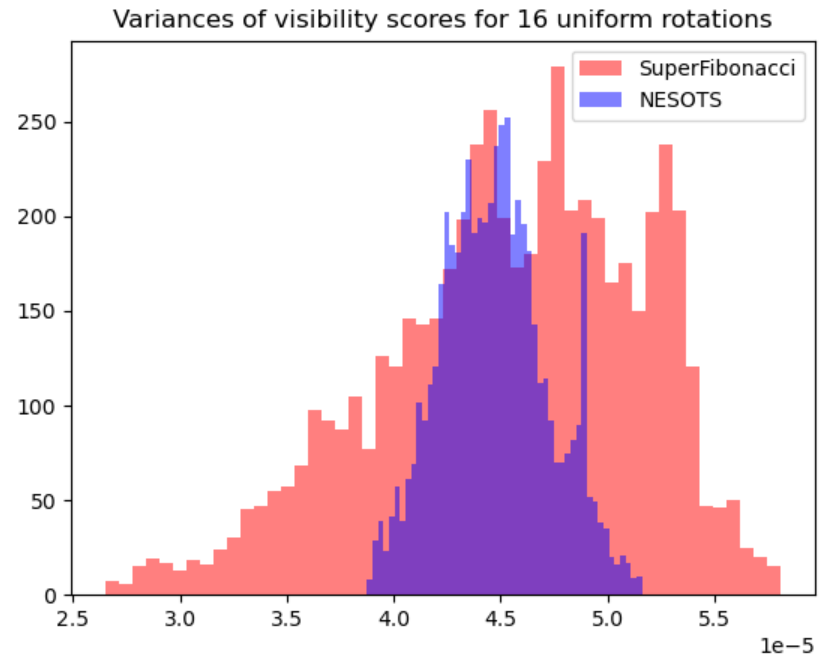
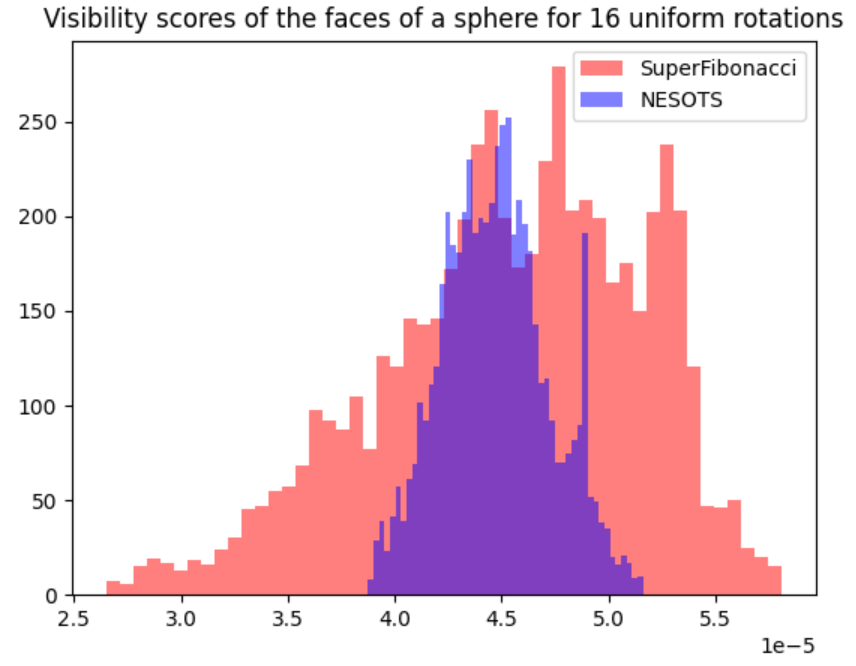
end nesots slides

diff --git a/projects/NESOTS/main.cpp b/projects/NESOTS/main.cpp
@@ -48,10 +48,10 @@ vecs project(vecs X,vec s) {
     return X;
 }
 
-curve_param roundArrowParam(const vec& a ,const vec& b) {
+curve_param roundArrowParam(const vec& a ,const vec& b,int side = 1) {
     vec mid = (a+b)/2;
     vec dx = b-mid;
-    int side = rand()%2;
+    //int side = rand()%2;
     return [mid,dx,side] (scalar t) {
         if (side)
             return vec(mid + Eigen::AngleAxis<scalar>(t*M_PI,vec(0,1,0))*dx);
@@ -174,7 +174,6 @@ using VFPC = std::shared_ptr<PolyscopeQuantity<polyscope::PointCloudVectorQuanti
 bool runall = false;
 void init() {
 
-    srand(time(NULL));
 
     Latex::NewCommand("W","\\mathcal{W}");
     Latex::NewCommand("U","\\mathcal{U}");
@@ -192,19 +191,19 @@ void init() {
 //        show << PlaceBelow(Latex::Add(tex::center("Baptiste Genest \\\\  Nicolas Courty \\\\ David Coeurjolly"),Options::UPS_default_height_ratio*0.8),0.1);
 //        show << PlaceBelow(Latex::Add("Eurographics 2024",Options::UPS_default_height_ratio*0.7),0.1);
 //        show << PlaceBottomLeft(Latex::Add("aaaaa",Options::UPS_default_height_ratio*0.7),0.01);
-        show << Image::Add("welcome.png",1);
+        show << Image::Add("welcome_2.jpeg",1);
         show << BackgroudColor::Add(0,0,0);
     }
 
     {
         show << newFrame << Title("Context")->at(TOP);
-        show << PlaceRelative(Latex::Add("We contribute to the \\textcolor{blue}{blue-noise} sampling techniques that uses \\textcolor{blue}{optimal transport} by extending those techniques to \\textcolor{blue}{non-Euclidean} domains ($\\Sp^d,\\Hy^d,\\Pp^d$)."),ABS_LEFT,UPS::REL_BOTTOM,0.03,0.1);
+        show << PlaceRelative(Latex::Add("We contribute to the \\textcolor{blue}{blue-noise} sampling techniques that use \\textcolor{blue}{optimal transport} by extending those techniques to \\textcolor{blue}{non-Euclidean} domains ($\\Sp^d,\\Hy^d,\\Pp^d$)"),ABS_LEFT,UPS::REL_BOTTOM,0.03,0.1);
         show << PlaceBottom(Image::Add("teaser.png"),0.5,0.1);
     }
 
     {
         show << newFrame << Title("Optimal Transport")->at(UPS::TOP);
-        show << PlaceBelow(Latex::Add("Discrete to Discrete"));
+        show << PlaceBelow(Latex::Add("Discrete to discrete"));
         show << PlaceBottom(Latex::Add(tex::center("Which assignation $\\gamma$ minimizes the effort to move each $x_i$ to $\\gamma(x_i)$?")),0.5,0.1);
 
         show << Image::Add("OT_1.png");
@@ -214,13 +213,13 @@ void init() {
     {
         show << newFrame;
         show << PlaceBottomLeft(Image::Add("article.png",.3),0.01)     ;
-        show << PlaceNextTo(Latex::Add("\\scriptsize \\color{orange}[Kantorovitch 1939], [Peyré et al. 2019]"),1,0.01);
+        show << PlaceNextTo(Latex::Add("\\scriptsize \\color{orange}[Kantorovitch 1939], [Peyré et al. 2019], [Villani 2008]"),1,0.01);
         show << Title("Optimal Transport")->at(UPS::TOP);
         show << PlaceBelow(Latex::Add("The Wasserstein distance"));
-        show << PlaceRelative(Latex::Add("Given two probability measures $\\alpha$ and $\\beta$"),placeX::ABS_LEFT,UPS::REL_BOTTOM,0.05,0.1);
-        show << PlaceRelative(Formula::Add(R"(\W_p^p(\alpha,\beta) = \inf_{\gamma \in \Pi(\alpha,\beta)} \int d(x,y)^p d\gamma)"),placeX::CENTER_X,UPS::REL_BOTTOM,0.05,0.1);
-        show << inNextFrame << PlaceRelative(Latex::Add("Very importantly, $\\alpha$ and $\\beta$ can be discrete or continuous!"),placeX::ABS_LEFT,UPS::REL_BOTTOM,0.05,0.1);
-        show << PlaceRelative(Image::Add("OT_discrete_conti.png"),placeX::CENTER_X,UPS::REL_BOTTOM,0.05,0.01);
+        show << PlaceRelative(Latex::Add("Given two probability measures $\\mu$ and $\\nu$"),placeX::ABS_LEFT,UPS::REL_BOTTOM,0.05,0.1);
+        show << PlaceRelative(Formula::Add(R"(\W_p^p(\mu,\nu) = \inf_{\gamma \in \Pi(\mu,\nu)} \int d(x,y)^p d\gamma)"),placeX::CENTER_X,UPS::REL_BOTTOM,0.05,0.1);
+        show << inNextFrame << PlaceRelative(Latex::Add("Very importantly, $\\mu$ and $\\nu$ can be discrete or continuous!"),placeX::ABS_LEFT,UPS::REL_BOTTOM,0.05,0.1);
+        show << PlaceRelative(Image::Add("OT_discrete_conti_2.png"),placeX::CENTER_X,UPS::REL_BOTTOM,0.05,0.01);
         show << PlaceRelative(Latex::Add("Image by Gabriel Peyré",Options::UPS_default_height_ratio*0.6),placeX::ABS_RIGHT,UPS::REL_BOTTOM,0.01,0.005);
     }
     {
@@ -228,7 +227,7 @@ void init() {
         show << PlaceBottomLeft(Image::Add("article.png",.3),0.01)     ;
         show << PlaceNextTo(Latex::Add("\\scriptsize \\color{orange}[Kantorovitch 1939]"),1,0.01);
         show << Title("How hard is it?")->at(UPS::TOP);
-        show << inNextFrame << PlaceRelative(Latex::Add("Exact discrete to discrete: Linear Programming $\\implies \\mathcal{O}(n^3)$"),placeX::ABS_LEFT,REL_BOTTOM,0.051,0.1);
+        show << inNextFrame << PlaceRelative(Latex::Add("Exact discrete to discrete: Linear Programming $\\implies \\mathcal{O}(N^3)$"),placeX::ABS_LEFT,REL_BOTTOM,0.051,0.1);
         show << inNextFrame << PlaceRelative(Latex::Add("Trivial in 1 case: 1D-OT"),placeX::ABS_LEFT,REL_BOTTOM,0.05,0.1);
         show << CameraView::Add("1DOT");
         {
@@ -249,12 +248,12 @@ void init() {
 
             PrimitiveGroup Assignments;
             for (int i = 0;i<N;i++){
-                Assignments << Curve3D::Add(roundArrowParam(proj(mup[i],theta),proj(nup[i],theta)),100,false,0.005);
+                Assignments << Curve3D::Add(roundArrowParam(proj(mup[i],theta),proj(nup[i],theta),i%2),100,false,0.005);
             }
             show << inNextFrame << Assignments;
         }
         //show << inNextFrame << PlaceBelow(Image::Add("OT_1D.png",0.7),0.05);
-        show << inNextFrame << PlaceBottom(Latex::Add("$\\mathcal{O}(n\\log(n))$",Options::UPS_default_height_ratio*1.5));
+        show << inNextFrame << PlaceBottom(Latex::Add("$\\mathcal{O}(N\\log(N))$",Options::UPS_default_height_ratio*1.5));
     }
 
     {
@@ -304,14 +303,14 @@ void init() {
 
             PrimitiveGroup Assigments;
             for (int i = 0;i<N;i++){
-                Assigments << Curve3D::Add(roundArrowParam(proj(mup[i],theta),proj(nup[i],theta)),100,false,0.002);
+                Assigments << Curve3D::Add(roundArrowParam(proj(mup[i],theta),proj(nup[i],theta),i%2),100,false,0.002);
             }
             show <<inNextFrame << Assigments;
             show << inNextFrame >> pct >> m >> n >> Assigments;
         }
         show << Formula::Add(R"(\frac{1}{L} \sum_i^L\W(P^{\theta_i}_\# \mu ,P^{\theta_i}_\# \nu) )" + tex::AbelowB("L\\rightarrow \\infty","\\longrightarrow"))->at("W2") << inNextFrame << PlaceNextTo(Formula::Add(R"(\int_{\Sp} \W(\proj_\# \mu ,\proj_\# \nu) d\theta = \textcolor{red}{SW(\mu,\nu)})"),1);
         show << inNextFrame << PlaceNextTo(Formula::Add("\\approx \\W(\\mu,\\nu)"),1);
-        show << newFrame << Title("Sampling Continuous densities")->at(TOP);
+        show << newFrame << Title("Sampling Continuous Densities")->at(TOP);
         show << inNextFrame << PlaceRelative(Latex::Add("We approximate semi-discrete OT by targeting a large number of samples:"),ABS_LEFT,REL_BOTTOM,0.02,0.12);
         auto app = Formula::Add("\\approx");
         show  << app->at(0.5,0.7) << PlaceRelative(Image::Add("gaussian_density.png"),app,UPS::REL_LEFT,placeY::SAME_Y) << PlaceRelative(Image::Add("gaussian_samples.png"),app,UPS::REL_RIGHT,placeY::SAME_Y);
@@ -325,11 +324,13 @@ void init() {
         auto uniform = Image::Add("uniform.png");
         auto blue_noise = Image::Add("blue_noise.png");
 
-        show << newFrame << Title("Sampling problem")->at(UPS::TOP);
-        show << inNextFrame << Formula::Add("\\mu_1")->at("mu1") << Formula::Add("\\mu_2")->at("mu2") << Formula::Add("\\U")->at("unif_den");// << Latex::Add(tex::center("$\\mu_1, \\mu_2 \\sim \\U$,\\\\ where $\\U$ \\\\ is the uniform\\\\ distribution"))->at("follow_u");
+        show << newFrame << Title("The Blue Noise Sampling Problem")->at(UPS::TOP);
+        show << inNextFrame << Formula::Add("\\mu_1")->at("mu1") << Formula::Add("\\mu_2")->at("mu2");
+        show << Formula::Add("\\U")->at("unif_den");// << Latex::Add(tex::center("$\\mu_1, \\mu_2 \\sim \\U$,\\\\ where $\\U$ \\\\ is the uniform\\\\ distribution"))->at("follow_u");
+        show << Formula::Add(R"(\mu = \frac{1}{N}\sum_{i=1}^N \delta_{x_i} )")->at("discrete_mu");
         show << beginCenter << Image::Add("unif.png") << PlaceNextTo(Image::Add("uniform.png"),1) << PlaceNextTo(Image::Add("blue_noise.png"),1) << endCenter;
         show << inNextFrame << PlaceRelative(Formula::Add("\\W(\\mu_1,\\U) > \\W(\\mu_2,\\U)"),CENTER_X,placeY::REL_BOTTOM,0,0.08);
-        show << inNextFrame << PlaceBelow(Latex::Add("Idea: Optimize $\\mu$ by gradient descent on $SW(\\mu,\\U)$ !",UPS::Options::UPS_default_height_ratio*1.4),0.05);
+        show << inNextFrame << PlaceBelow(Latex::Add("Idea: Optimize $\\mu$ by gradient descent on $SW(\\mu,\\U)$!",UPS::Options::UPS_default_height_ratio*1.4),0.05);
     }
 
     auto grad = Formula::Add("\\nabla_{x_i} SW^{\\theta} = T^{\\theta}(x_i) - x_i");
@@ -346,7 +347,7 @@ void init() {
         show << CameraView::Add("planar_close");
 
         {
-            auto swgrad = Formula::Add(R"(SW^\theta(\delta_x,\delta_y) = \frac{1}{2}(x-y)^2 \implies \nabla_{x_i} SW^\theta =  x_i - T^{\theta}(x_i))");
+            auto swgrad = Formula::Add(R"(SW^\theta(\delta_x,\delta_y) = \frac{1}{2}(x-y)^2 \implies \nabla_{x_i} SW^\theta = x_i - T^{\theta}(x_i))");
             vec theta = vec(1,0,0);
             auto pct = Curve3D::Add(vecs{-theta*3,theta*3},false,0.005);
 
@@ -358,7 +359,7 @@ void init() {
             auto nupc = PointCloud::Add(nu);
 
             show << inNextFrame << PlaceBelow(swgrad) <<  pct << mupc << nupc;
-            show << Formula::Add("x")->track([x](){return x;},vec2(0.02,0.02)) << Formula::Add("y")->track([y](){return y;},vec2(0.02,0.02));
+            show << Formula::Add("x")->track([x](){return x;},vec2(0.02,0.02)) << Formula::Add("y=T(x)")->track([y](){return y;},vec2(0.02,0.02));
 
             auto mup =mu;auto nup = nu;
             std::sort(mup.begin(),mup.end(),[theta](const vec& x,const vec& y) {return x.dot(theta) < y.dot(theta);});
@@ -366,7 +367,7 @@ void init() {
 
             PrimitiveGroup Assignments;
             for (int i = 0;i<1;i++){
-                Assignments << Curve3D::Add(roundArrowParam(proj(mup[i],theta),proj(nup[i],theta)),100,false,0.005);
+                Assignments << Curve3D::Add(roundArrowParam(proj(mup[i],theta),proj(nup[i],theta),1),100,false,0.005);
             }
             show << Assignments;
         }
@@ -426,7 +427,7 @@ void init() {
             if (i == 0) {
                 PrimitiveGroup Assigments;
                 for (int i = 0;i<N;i++){
-                    Assigments << Curve3D::Add(roundArrowParam(proj(mup[i].first,theta),proj(nup[i].first,theta)),100,false,0.002);
+                    Assigments << Curve3D::Add(roundArrowParam(proj(mup[i].first,theta),proj(nup[i].first,theta),i%2),100,false,0.002);
                 }
 
                 show << inNextFrame << Assigments;
@@ -467,6 +468,9 @@ void init() {
         auto gradpc = mupc->pc->addVectorQuantity("combined gradient",combined_gradients);
         show << AddPolyscopeQuantity<polyscope::PointCloudVectorQuantity>(gradpc);
         show << inNextFrame << descent->at("advect") << inNextFrame << PointCloud::Add(mu) >> mupc;
+
+        show << newFrameSameTitle << PlaceBelow(Latex::Add("Results"),0.04);
+        show << PlaceBelow(Gif::Add("R2_sampling.gif",20,1.1),0.1);
     }
     auto grid = Mesh::Add(Options::DataPath+"meshes/tri_grid_50.obj");
 
@@ -511,7 +515,7 @@ void init() {
         show << descent->at("grad_optim");
         show << inNextFrame;
 
-        auto RGD =  Latex::Add(tex::center("Riemannian Gradient Descent:\\\\ $x_{n+1} = \\text{Exp}_{x_n}(-\\tau \\nabla f (x_n))$"));
+        auto RGD =  Latex::Add(tex::center("\\color{gray}\\textit{Riemannian Gradient Descent}:\\\\ $x_{n+1} = \\text{Exp}_{x_n}(-\\tau \\nabla f (x_n))$"));
         show << RGD->at("RGD",0.7);
 
         auto Exp = Point::Add([mu](TimeObject t){
@@ -530,7 +534,7 @@ void init() {
         show >> gradfpc;
         show << inNextFrame;
 
-        auto grad = Formula::Add("\\Rd: \\nabla_{x_i} SW^{\\theta} = x_i - T^{\\theta}(x_i)");
+        auto grad = Formula::Add("\\Rd: \\nabla_{x} SW^{\\theta} = x - T^{\\theta}(x)");
         show << PlaceBelow(grad,0.1) << inNextFrame;
         show << inNextFrame;
         show << nupc << Formula::Add("y")->track([nupc](){return nupc->getCurrentPos();},vec2(0.02,0.02));
@@ -553,7 +557,7 @@ void init() {
     auto S = Mesh::Add(Options::DataPath + "meshes/ico_sphere_5.obj",vec(1,1,1),true);
 
     {
-        show << newFrame << Title("NESOTS algorithm")->at(TOP);
+        show << newFrame << Title("NESOTS Algorithm")->at(TOP);
         show << PlaceRight(Image::Add("nesots_algo.png",0.85),0.55,0.02);
         show << CameraView::Add("nesots");
         auto slice= Curve3D::Add([] (scalar t) {return vec(cos(t*2*M_PI),sin(t*2*M_PI),0);},100,true,0.01);
@@ -561,6 +565,7 @@ void init() {
         //2530 1914
         show << inNextFrame;
         show << S;
+        show << PlaceBottomLeft(Formula::Add("\\Sp^d"),0.05);
         auto cursor = Image::Add("highlight.png",1.1);
         cursor->setDepth(1);
 
@@ -628,7 +633,9 @@ void init() {
         show << inNextFrame;// >> pimupc >> pinupc >> slice >> T >> rot_mu >> projlabel>> projlabel_nu >> rotlabel >> Tlabel >> group_label >> slice_label;
         show << Formula::Add("\\nabla_x \\text{SW}^\\theta(\\mu,\\nu) = \\text{Log}_x(\\Gamma_\\theta((x))")->at("grad");
         show << newFrame;
-        show << Title("Results")->at(TOP) << Gif::Add("sphere_sampling.gif",20,1.3,false);
+
+        show << Title("Results")->at(TOP) << PlaceLeft(Gif::Add("sphere_sampling.gif",20,1.3,false),0.6,0.05);
+        show << PlaceRight(Image::Add("compare_sphere.png",1.3),0.6,0.1);
         //show << Image::Add("logexp.png",1)->at("logexp");
     }
     {
@@ -645,7 +652,7 @@ $\textbf{Log}_x(y)$ &
   $y-x$ &
   $\frac{\Pi_{TM_x}(y-x)}{||\Pi_{TM_x}(y-x)||}d(x,y)$ &
   $\frac{\text{arccosh}(-\langle x,y\rangle_L)}{\sqrt{\langle x,y \rangle_L^2-1}}(y+\langle x,y\rangle_L x)$ \\ \hline
-$P^\theta(x)$ &
+$\textbf{P}^\theta(x)$ &
   $\theta \langle \theta , x \rangle$ &
   $\frac{\Pi^\theta(x)}{||\Pi^\theta(x)||}$ &
   $\frac{\Pi^\theta(x)}{\sqrt{-\langle \Pi^\theta(x),\Pi^\theta(x) \rangle_L}}$ \\ \hline
@@ -677,7 +684,7 @@ $P^\theta(x)$ &
     {
         show << newFrame << Title("Intrinsic Mesh Sampling")->at(TOP);
         show << PlaceBottomLeft(Image::Add("article.png",.3),0.01)     ;
-        show << PlaceNextTo(Latex::Add("\\scriptsize \\color{orange}[Bobenko et al. 2015]"),1,0.01);
+        show << PlaceNextTo(Latex::Add("\\scriptsize \\color{orange}[Bobenko et al. 2015],[Gillespie et al. 2021],[Schmidt et al. 2020]"),1,0.01);
         //show << PlaceBelow(Formula::Add(R"(\text{Mesh} \rightarrow \Sp\text{ or }\Hy \rightarrow \text{NESOTS} \rightarrow \text{Mesh})"),0.05);
         show << Image::Add("mesh_sampling_full.png");
         //show << PlaceBelow(Formula::Add("g=0"));
@@ -704,7 +711,9 @@ $P^\theta(x)$ &
         show << newFrameSameTitle << Gif::Add("macaca_sampling.gif",14,1.3);
         show << newFrameSameTitle << Image::Add("mesh_sampling_cmp.png");
         scalar l = 0.08;
-        show << Latex::Add("ours")->at("ours") << PlaceNextTo(Latex::Add("FP"),1,l) << PlaceNextTo(Latex::Add("PDS"),1,l) << PlaceNextTo(Latex::Add("CVT"),1,l-0.0005);
+        show << Latex::Add("ours")->at("ours") << PlaceNextTo(Latex::Add("FP"),1,l) << PlaceNextTo(Latex::Add("PDS"),1,l) << PlaceNextTo(Latex::Add("CVT"),1,l-0.0005) << PlaceNextTo(Latex::Add("\\textit{pcf}"),1,0.14);
+        show << PlaceBottomLeft(Image::Add("article.png",.3),0.01)     ;
+        show << PlaceNextTo(Latex::Add("\\scriptsize \\color{orange}[Peyré et al. 2006],[Liu et al. 2009]"),1,0.01);
         show << newFrameSameTitle << Image::Add("non_unif_mesh_sampling.png");
     }
     {
@@ -749,10 +758,12 @@ $P^\theta(x)$ &
         show << Latex::Add("But since, $q^{-1}\\Vec{x}q = (-q)^{-1}\\Vec{x}(-q)$, we need projective sampling!")->at("quat");
         show << inNextFrame << Gif::Add("rotation_sampling.gif")->at("rot2");
         show << inNextFrame << Image::Add("visibility.png",0.8)->at("visibility");
+        show << PlaceBottomLeft(Image::Add("article.png",.3),0.01)     ;
+        show << PlaceNextTo(Latex::Add("\\scriptsize \\color{orange}[Alexa 2022]"),1,0.01);
 
         show << newFrameSameTitle << PlaceBelow(Latex::Add("And much more!"));
         show << Image::Add("line_sampling.png",1.4)->at("line");
-        show << Formula::Add("ax+by+c = 0")->at("cartesian");
+        show << Latex::Add("Sampling cartesian equations:")->at("cartesian") << PlaceBelow(Formula::Add("ax+by+c = 0"));
     }
 
     {
@@ -760,29 +771,33 @@ $P^\theta(x)$ &
         show <<
             PlaceRelative(Latex::Add(
                                   tex::enumerate(
-                                      "We introduced NESOTS, a general algorithm for blue-noise sampling on non-Euclidean geometries",
+                                      "We introduced NESOTS, a general algorithm for\\\\ blue-noise sampling on non-Euclidean geometries",
                                       "It allows us to intrinsincly sample meshes",
                                       "Projective sampling appears to be new and promising")
                                   +"\n Future works: \n " +
                                   tex::enumerate(
                                       "Intrinsic remeshing",
-                                      " Extension to other domains (e.g. Lie groups)",
+                                      "Extension to other domains (e.g. Lie groups)",
                                                                              "Order 2 methods"
                                                                              )),ABS_LEFT,REL_BOTTOM,0.04,0.15);
+        show << Image::Add("sphere_sampling.png",0.5)->at("ccl_teaser1");
+        show << Image::Add("duck.png")->at("ccl_teaser2");
+        show << Image::Add("rot_sampling.png",0.5)->at("ccl_teaser3");
         //        show << inNextFrame << PlaceBelow(Latex::Add("We showed how to apply it to various geometries"),0.1);
     }
 
     show << newFrame << Title("Thank you for your attention");
     show << PlaceBelow(Latex::Add("Code Available: \\url{https://github.com/baptiste-genest/NESOTS}"));
     show << Image::Add("ANR.jpg",0.6)->at("ANR") << PlaceNextTo(Image::Add("QR_code.png",0.1),1,0.1);
+    show << Image::Add("logo_cnrs.png",0.3)->at("cnrs") << PlaceNextTo(Image::Add("logo_liris.png"),1,0.1)<< PlaceNextTo(Image::Add("logo_irisa.png"),1,0.1);
 
 }
 
 int main(int argc,char** argv)
 {
-    srand(1);
     show.init("NESOTS",argc,argv);
 
+    srand(5);
     init();
 
     polyscope::state::userCallback = [](){

diff --git a/src/slides/CLI.cpp b/src/slides/CLI.cpp
@@ -17,7 +17,21 @@ int parseCLI(int argc,char** argv) {
     std::string resolution = "1920x1080";
     app.add_option("--resolution",resolution,"screen resolution (default 1920x1080)");
 
+    int seed = -1;
+    app.add_option("--seed",seed,"seed for random generator");
+
     CLI11_PARSE(app,argc,argv);
+    try {
+        app.parse(argc,argv);
+    } catch (const CLI::ParseError& e) {
+        app.exit(e);
+    }
+
+    if (seed == -1)
+        srand(time(NULL));
+    else{
+        srand(seed);
+    }
 
     if (clear_cache){
         spdlog::info("clearing cache");

diff --git a/projects/NESOTS/plot.py b/projects/NESOTS/plot.py
@@ -1,6 +1,6 @@
 import marimo
 
-__generated_with = "0.1.63"
+__generated_with = "0.1.50"
 app = marimo.App()
 
 
@@ -77,7 +77,7 @@ def __(np, plt):
     plt.hist(sots, bins=50, alpha=0.5, label='NESOTS', color='b')
 
     # add title
-    plt.title('Variances of visibility scores for 16 uniform rotations')
+    plt.title('Visibility scores of the faces of a sphere for 16 uniform rotations')
 
     plt.legend()
     plt.show()

diff --git a/src/slides/Slideshow.cpp b/src/slides/Slideshow.cpp
@@ -212,7 +212,8 @@ void UPS::Slideshow::ImGuiWindowConfig()
 
 void UPS::Slideshow::init(std::string project_name,int argc,char** argv)
 {
-    parseCLI(argc,argv);
+    if (parseCLI(argc,argv))
+        assert(false);
     from_action = Time::now();
     from_begin = Time::now();
 
